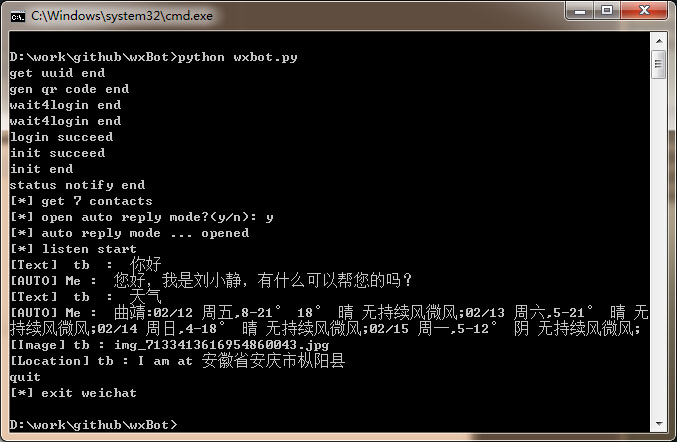
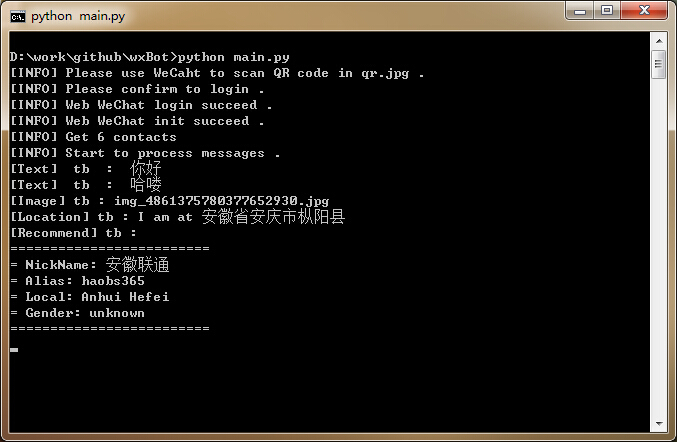
Bug fix and README change.

Changed region(s): [[0.0, 0.0, 1.0, 1.0], [0.9616, 0.2941, 1.0, 0.5294]]

diff --git a/wxbot.py b/wxbot.py
@@ -32,14 +32,14 @@ class WXBot:
         self.skey = ''
         self.pass_ticket = ''
         self.deviceId = 'e' + repr(random.random())[2:17]
-        self.BaseRequest = {}
-        self.synckey = ''
-        self.SyncKey = []
-        self.User = []
-        self.MemberList = []
-        self.ContactList = []
-        self.GroupList = []
-        self.syncHost = ''
+        self.base_request = {}
+        self.sync_key_str = ''
+        self.sync_key = []
+        self.user = []
+        self.member_list = []
+        self.contact_list = []
+        self.group_list = []
+        self.sync_host = ''
         self.session = requests.Session()
         self.session.headers.update({'User-Agent': 'Mozilla/5.0 (X11; Linux i686; U;) Gecko/20070322 Kazehakase/0.4.5'})
 
@@ -89,9 +89,9 @@ class WXBot:
             self.base_uri = redirect_uri[:redirect_uri.rfind('/')]
             return True
         elif code == '408':
-            print '[login timeout]'
+            print '[ERROR] WeChat login timeout .'
         else:
-            print '[login exception]'
+            print '[ERROR] WeChat login exception .'
         return False
 
     def login(self):
@@ -114,7 +114,7 @@ class WXBot:
         if '' in (self.skey, self.sid, self.uin, self.pass_ticket):
             return False
 
-        self.BaseRequest = {
+        self.base_request = {
             'Uin': self.uin,
             'Sid': self.sid,
             'Skey': self.skey,
@@ -125,24 +125,24 @@ class WXBot:
     def init(self):
         url = self.base_uri + '/webwxinit?r=%i&lang=en_US&pass_ticket=%s' % (int(time.time()), self.pass_ticket)
         params = {
-            'BaseRequest': self.BaseRequest
+            'BaseRequest': self.base_request
         }
         r = self.session.post(url, json=params)
         r.encoding = 'utf-8'
         dic = json.loads(r.text)
-        self.SyncKey = dic['SyncKey']
-        self.User = dic['User']
-        self.synckey = '|'.join([ str(keyVal['Key']) + '_' + str(keyVal['Val']) for keyVal in self.SyncKey['List'] ])
+        self.sync_key = dic['SyncKey']
+        self.user = dic['User']
+        self.sync_key_str = '|'.join([ str(keyVal['Key']) + '_' + str(keyVal['Val']) for keyVal in self.sync_key['List'] ])
         return dic['BaseResponse']['Ret'] == 0
 
     def status_notify(self):
         url = self.base_uri + '/webwxstatusnotify?lang=zh_CN&pass_ticket=%s' % (self.pass_ticket)
-        self.BaseRequest['Uin'] = int(self.BaseRequest['Uin'])
+        self.base_request['Uin'] = int(self.base_request['Uin'])
         params = {
-            'BaseRequest': self.BaseRequest,
+            'BaseRequest': self.base_request,
             "Code": 3,
-            "FromUserName": self.User['UserName'],
-            "ToUserName": self.User['UserName'],
+            "FromUserName": self.user['UserName'],
+            "ToUserName": self.user['UserName'],
             "ClientMsgId": int(time.time())
         }
         r = self.session.post(url, json=params)
@@ -158,32 +158,36 @@ class WXBot:
             with open('contacts.json', 'w') as f:
                 f.write(r.text.encode('utf-8'))
         dic = json.loads(r.text)
-        self.MemberList = dic['MemberList']
+        self.member_list = dic['MemberList']
 
-        ContactList = self.MemberList[:]
+        contact_list = self.member_list[:]
         SpecialUsers = ['newsapp','fmessage','filehelper','weibo','qqmail','fmessage','tmessage','qmessage','qqsync','floatbottle','lbsapp','shakeapp','medianote',
             'qqfriend','readerapp','blogapp','facebookapp','masssendapp','meishiapp','feedsapp','voip','blogappweixin','weixin','brandsessionholder','weixinreminder','wxid_novlwrv3lqwv11',
             'gh_22b87fa7cb3c','officialaccounts','notification_messages','wxid_novlwrv3lqwv11','gh_22b87fa7cb3c','wxitil','userexperience_alarm','notification_messages']
-        for contact in ContactList:
+        for contact in contact_list:
             if contact['VerifyFlag'] & 8 != 0: # public account
-                ContactList.remove(contact)
+                contact_list.remove(contact)
             elif contact['UserName'] in SpecialUsers: # special account
-                ContactList.remove(contact)
+                contact_list.remove(contact)
             elif contact['UserName'].find('@@') != -1: # group
-                self.GroupList.append(contact)
-                ContactList.remove(contact)
-            elif contact['UserName'] == self.User['UserName']: # self
-                ContactList.remove(contact)
-        self.ContactList = ContactList
+                self.group_list.append(contact)
+                contact_list.remove(contact)
+            elif contact['UserName'] == self.user['UserName']: # self
+                contact_list.remove(contact)
+        self.contact_list = contact_list
+
+        if self.DEBUG:
+            with open('contactlist.json', 'w') as f:
+                f.write(json.dumps(self.contact_list))
 
         return True
 
     def batch_get_contact(self):
         url = self.base_uri + '/webwxbatchgetcontact?type=ex&r=%s&pass_ticket=%s' % (int(time.time()), self.pass_ticket)
         params = {
-            'BaseRequest': self.BaseRequest,
-            "Count": len(self.GroupList),
-            "List": [ {"UserName": g['UserName'], "EncryChatRoomId":""} for g in self.GroupList ]
+            'BaseRequest': self.base_request,
+            "Count": len(self.group_list),
+            "List": [ {"UserName": g['UserName'], "EncryChatRoomId":""} for g in self.group_list ]
         }
         r = self.session.post(url, data=params)
         r.encoding = 'utf-8'
@@ -192,7 +196,7 @@ class WXBot:
 
     def test_sync_check(self):
         for host in ['webpush', 'webpush2']:
-            self.syncHost = host
+            self.sync_host = host
             [retcode, selector] = self.sync_check()
             if retcode == '0':
                 return True
@@ -205,10 +209,10 @@ class WXBot:
             'uin': self.uin,
             'skey': self.skey,
             'deviceid': self.deviceId,
-            'synckey': self.synckey,
+            'synckey': self.sync_key_str,
             '_': int(time.time()),
         }
-        url = 'https://' + self.syncHost + '.weixin.qq.com/cgi-bin/mmwebwx-bin/synccheck?' + urllib.urlencode(params)
+        url = 'https://' + self.sync_host + '.weixin.qq.com/cgi-bin/mmwebwx-bin/synccheck?' + urllib.urlencode(params)
         r = self.session.get(url)
         r.encoding = 'utf-8'
         data = r.text
@@ -220,18 +224,16 @@ class WXBot:
     def sync(self):
         url = self.base_uri + '/webwxsync?sid=%s&skey=%s&lang=en_US&pass_ticket=%s' % (self.sid, self.skey, self.pass_ticket)
         params = {
-            'BaseRequest': self.BaseRequest,
-            'SyncKey': self.SyncKey,
+            'BaseRequest': self.base_request,
+            'SyncKey': self.sync_key,
             'rr': ~int(time.time())
         }
         r = self.session.post(url, json=params)
         r.encoding = 'utf-8'
         dic = json.loads(r.text)
-        if self.DEBUG:
-            print json.dumps(dic, indent=4)
         if dic['BaseResponse']['Ret'] == 0:
-            self.SyncKey = dic['SyncKey']
-            self.synckey = '|'.join([ str(keyVal['Key']) + '_' + str(keyVal['Val']) for keyVal in self.SyncKey['List'] ])
+            self.sync_key = dic['SyncKey']
+            self.sync_key_str = '|'.join([ str(keyVal['Key']) + '_' + str(keyVal['Val']) for keyVal in self.sync_key['List'] ])
         return dic
 
     def get_icon(self, id):
@@ -264,16 +266,6 @@ class WXBot:
             f.write(data)
         return fn
 
-    # Not work now for weixin haven't support this API
-    def get_video(self, msgid):
-        url = self.base_uri + '/webwxgetvideo?msgid=%s&skey=%s' % (msgid, self.skey)
-        r = self.session.get(url)
-        data = r.content
-        fn = 'video_'+msgid+'.mp4'
-        with open(fn, 'wb') as f:
-            f.write(data)
-        return fn
-
     def get_voice_url(self, msgid):
         return self.base_uri + '/webwxgetvoice?msgid=%s&skey=%s' % (msgid, self.skey)
 
@@ -289,14 +281,14 @@ class WXBot:
     #Get the NickName or RemarkName of an user by user id
     def get_user_remark_name(self, uid):
         name = 'unknown group' if uid[:2] == '@@' else 'stranger'
-        for member in self.MemberList:
+        for member in self.member_list:
             if member['UserName'] == uid:
                 name = member['RemarkName'] if member['RemarkName'] else member['NickName']
         return name
 
     #Get user id of an user
     def get_user_id(self, name):
-        for member in self.MemberList:
+        for member in self.member_list:
             if name == member['RemarkName'] or name == member['NickName'] or name == member['UserName']:
                 return member['UserName']
         return None
@@ -359,7 +351,7 @@ class WXBot:
                     if self.DEBUG:
                         print '[File] %s : %s' % (name, )
 
-                elif msg['FromUserName'] == self.User['UserName']: #self
+                elif msg['FromUserName'] == self.user['UserName']: #self
                     msg_type_id = 3
 
                 elif msg['FromUserName'][:2] == '@@':
@@ -452,19 +444,17 @@ class WXBot:
             self.handle_msg_all(message)
 
     def proc_msg(self):
-        print 'proc start'
         self.test_sync_check()
         while True:
             [retcode, selector] = self.sync_check()
-            if retcode == '1100':
+            if retcode == '1100': # User have login on mobile
                 pass
-                #print '[*] you have login on mobile'
             elif retcode == '0':
                 if selector == '2':
                     r = self.sync()
                     if r is not None:
                         self.handle_msg(r)
-                elif selector == '7': # play WeChat on mobile
+                elif selector == '7': # Play WeChat on mobile
                     r = self.sync()
                     if r is not None:
                         self.handle_msg(r)
@@ -475,11 +465,11 @@ class WXBot:
         url = self.base_uri + '/webwxsendmsg?pass_ticket=%s' % (self.pass_ticket)
         msg_id = str(int(time.time()*1000)) + str(random.random())[:5].replace('.','')
         params = {
-            'BaseRequest': self.BaseRequest,
+            'BaseRequest': self.base_request,
             'Msg': {
                 "Type": 1,
                 "Content": make_unicode(word),
-                "FromUserName": self.User['UserName'],
+                "FromUserName": self.user['UserName'],
                 "ToUserName": dst,
                 "LocalID": msg_id,
                 "ClientMsgId": msg_id
@@ -512,8 +502,10 @@ class WXBot:
                 else:
                     return False
         else:
-            print '[*] this user does not exist'
+            if self.DEBUG:
+                print '[ERROR] This user does not exist .'
             return False
+
     def search_content(self, key, content, fmat = 'attr'):
         if fmat == 'attr':
             pm = re.search(key+'\s?=\s?"([^"<]+)"', content)
@@ -525,27 +517,23 @@ class WXBot:
 
     def run(self):
         self.get_uuid()
-        print 'get uuid end'
         self.gen_qr_code('qr.jpg')
-        print 'gen qr code end'
+        print '[INFO] Please use WeCaht to scan QR code in qr.jpg .'
         self.wait4login(1)
-        print 'wait4login end'
+        print '[INFO] Please confirm to login .'
         self.wait4login(0)
-        print 'wait4login end'
         if self.login():
-            print 'login succeed'
+            print '[INFO] Web WeChat login succeed .'
         else:
-            print 'login failed'
+            print '[ERROR] Web WeChat login failed .'
             return
         if self.init():
-            print 'init succeed'
+            print '[INFO] Web WeChat init succeed .'
         else:
-            print 'init failed'
+            print '[INFO] Web WeChat init failed'
             return
-        print 'init end'
         self.status_notify()
-        print 'status notify end'
         self.get_contact()
-        print 'get %d contacts' % len(self.ContactList)
-
+        print '[INFO] Get %d contacts' % len(self.contact_list)
+        print '[INFO] Start to process messages .'
         self.proc_msg()

diff --git a/README.md b/README.md
@@ -1,8 +1,8 @@
 # wxBot [![star this repo](http://github-svg-buttons.herokuapp.com/star.svg?user=liuwons&repo=wxBot&style=flat&background=1081C1)](http://github.com/liuwons/wxBot) [![fork this repo](http://github-svg-buttons.herokuapp.com/fork.svg?user=liuwons&repo=wxBot&style=flat&background=1081C1)](http://github.com/liuwons/wxBot/fork) ![python](https://img.shields.io/badge/python-2.7-ff69b4.svg)
 
-Python包装的网页微信API。可以很容易地实现微信机器人。
+Python包装WEB微信实现的微信机器人框架。可以很容易地实现微信机器人。
 
-## Dependencies
+## 依赖
 程序用到了Python requests 和 pyqrcode库，使用之前需要安装这两个库:
 
 ```bash
@@ -10,7 +10,7 @@ pip install requests
 pip install pyqrcode
 ```
 
-## Example
+## 快速开发
 ### 代码
 
 利用 **wxBot** 最简单的方法就是继承WXBot类并实现handle_msg_all函数，然后实例化子类并run，如下的代码对所有的文本消息回复 hi 。
@@ -36,7 +36,7 @@ if __name__ == '__main__':
 
 ### 运行
 
-直接用python运行代码(如代码为main.py时)
+直接用python运行代码(如运行测试代码main.py):
 
 ``` python
 python main.py
@@ -49,8 +49,8 @@ python main.py
 
 ![1](img/1.png)
 
-## Demo
-利用 **[图灵机器人](http://www.tuling123.com/)** 做自动回复之后，通过测试账号发送各种消息的效果：
+## 效果展示
+测试代码main.py的运行效果：
 
 ![向机器人发送消息](img/send_msg.png)
 
